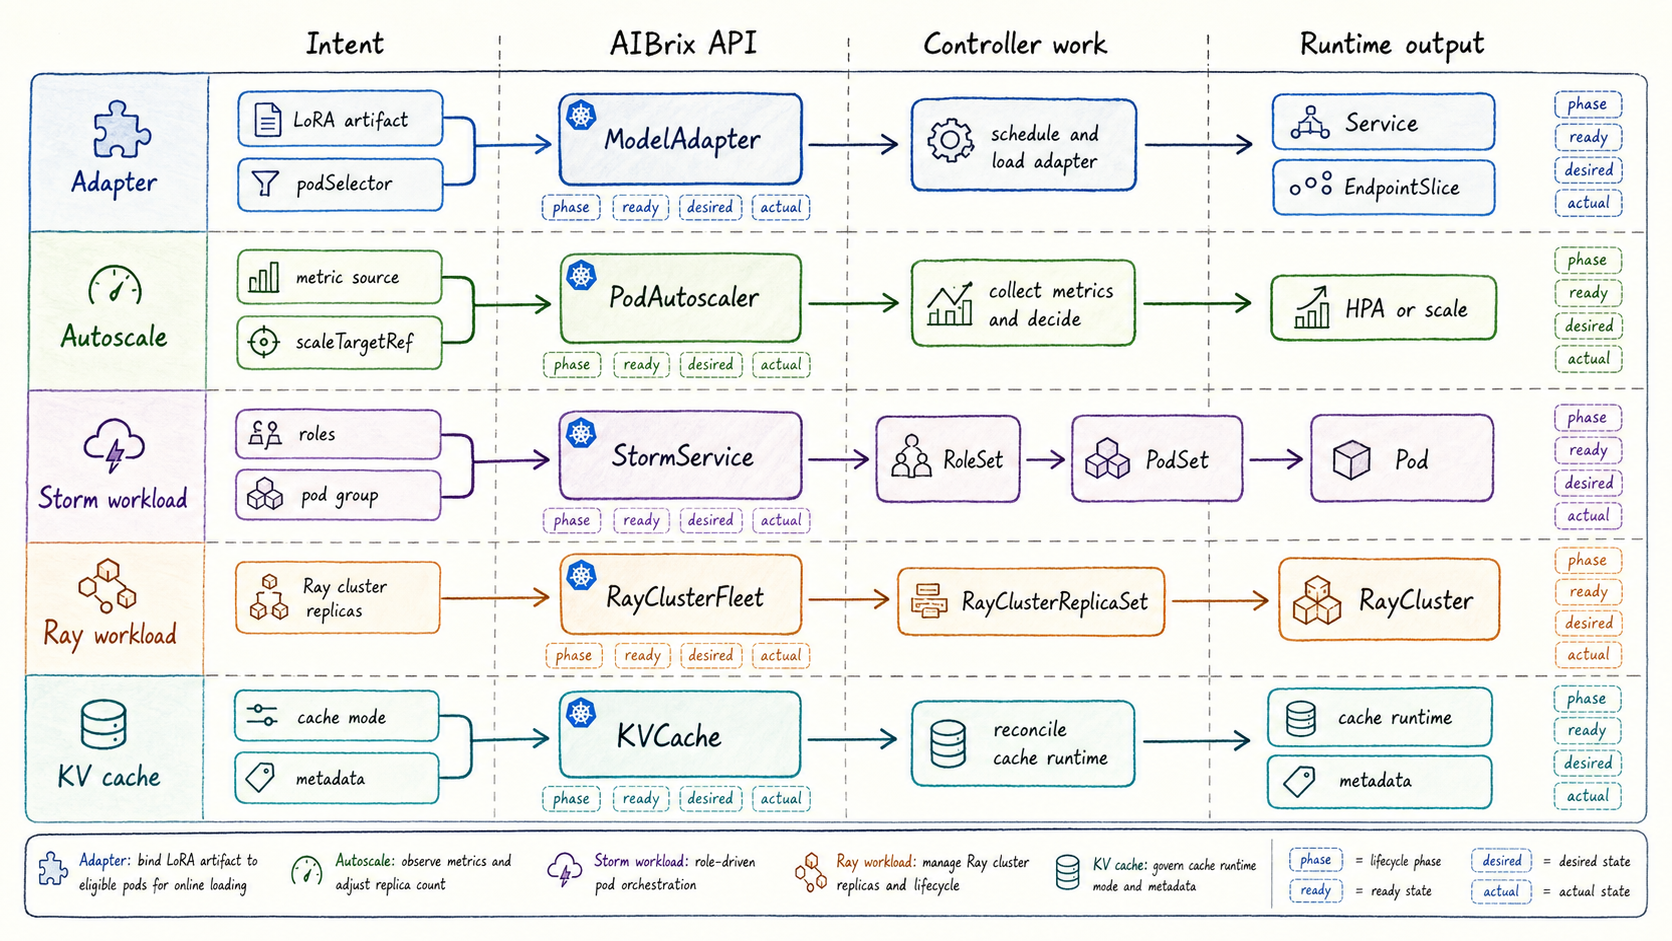
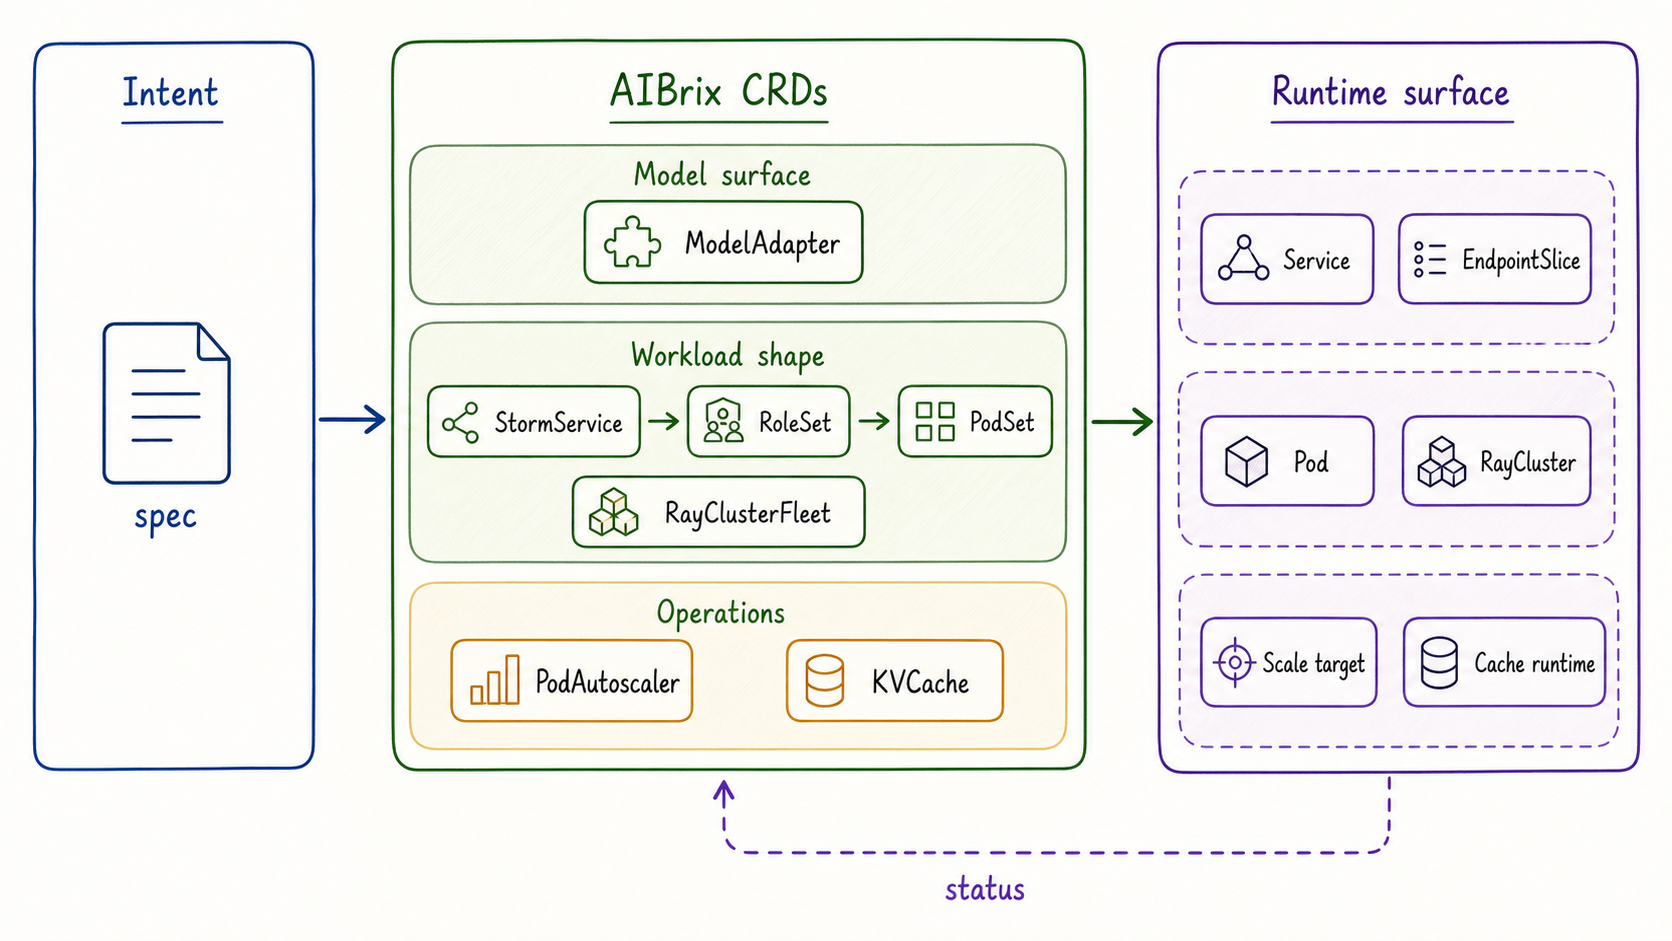
Simplify AIBrix CRD tutorial figures

Changed region(s): [[0.0, 0.0308, 0.9952, 0.9862], [0.5598, 0.2465, 0.5909, 0.2774]]

diff --git a/notes/maas/aibrix架构与实现/02.CRD中心化架构.md b/notes/maas/aibrix架构与实现/02.CRD中心化架构.md
@@ -6,7 +6,7 @@ tags:
   - Kubernetes
   - CRD
   - 架构
-updated: 2026-05-31
+updated: 2026-06-01
 description: "本文解释 AIBrix 如何以 CRD 作为控制面表达入口，并梳理核心 CRD 与 Kubernetes 原生资源、控制器协作之间的关系。"
 ---
 
@@ -73,9 +73,9 @@ AIBrix 的 CRD 中心化架构，可以先理解为三句话：
 
 第二个点是 `Deployment`。基础模型服务可以直接以 Kubernetes `Deployment` 的形式存在，并通过 `model.aibrix.ai/name`、`model.aibrix.ai/port` 等标签被 AIBrix 识别。它不是 AIBrix CRD，却可以成为 AIBrix 路由、扩缩容和运行时观测的一部分。AIBrix 的 CRD 中心化并不否定原生资源，反而依赖原生资源承载实际工作负载。
 
-![图2：AIBrix 核心 CRD 的语义操作图](assets/02/02-crd-map.png)
+![图2：AIBrix 核心 CRD 的语义分层图](assets/02/02-crd-map.png)
 
-图 2 不再把 CRD 画成简单对象清单，而是按“意图、AIBrix API、控制器工作、运行时输出”四列阅读。`ModelAdapter` 这一行展示 LoRA artifact 和 `podSelector` 如何进入 adapter 调度与加载，再落到 `Service`、`EndpointSlice`；`PodAutoscaler` 这一行展示指标来源和 `scaleTargetRef` 如何进入扩缩容决策；`StormService` 与 `RayClusterFleet` 两行展示复杂工作负载如何逐层下降到 Pod 或 RayCluster；`KVCache` 则展示缓存 mode、metadata 与 cache runtime 的管理关系。右侧的小状态块提醒读者：这些对象不仅有目标状态，也会持续产生 phase、ready、desired、actual 等可观测信号。
+图 2 把 AIBrix CRD 压缩成三类语义来读。`Model surface` 关注模型服务入口和 adapter 暴露，典型对象是 `ModelAdapter`，运行时会落到 `Service` 和 `EndpointSlice`。`Workload shape` 关注复杂工作负载结构，`StormService`、`RoleSet`、`PodSet` 用于表达角色化 Pod 组织，`RayClusterFleet` 则面向 RayCluster 这类分布式推理实例。`Operations` 关注横向治理，`PodAutoscaler` 连接扩缩容目标，`KVCache` 连接缓存运行时。这样读图时，重点不再是背完所有对象，而是看清每组 CRD 在平台里负责哪一种语义。
 
 这也说明“核心 CRD”不是一个平面列表。它们之间存在层级关系、横向引用关系和下游资源关系。读源码或样例时，如果只把所有 YAML 平铺起来，很容易把 `StormService`、`RoleSet`、`PodSet` 看成三个互不相干的对象；而从控制面设计看，它们其实是在把“复杂推理服务”逐步拆成更具体、更接近运行时的对象。
 
@@ -143,11 +143,11 @@ CRD 只是控制面的 API 表达，真正让系统动起来的是控制器。AI
 4. observe：观察 Pod、Service、EndpointSlice、RayCluster、指标或运行时结果；
 5. update status：把观察结果写回 CRD `status`。
 
-![图4：AIBrix 控制器职责矩阵](assets/02/04-controller-ownership-loop.png)
+![图4：控制器围绕 Kubernetes API 的协作方式](assets/02/04-controller-ownership-loop.png)
 
-图 4 用职责矩阵替代单链路示意图。`ModelRouter` 监听 `Deployment`、`ModelAdapter`、`RayClusterFleet` 等带模型身份的对象，并创建 `HTTPRoute`、`ReferenceGrant`，但它不是一个写回 CRD `status` 的控制器。`ModelAdapter controller` 负责 adapter 发现与服务发现资源；`PodAutoscaler controller` 负责指标读取和扩缩容目标；`StormService`、`RoleSet`、`PodSet` 形成工作负载编排链；`RayClusterFleet` 和 `RayClusterReplicaSet` 对接可选 KubeRay；`KVCache controller` 管理缓存 runtime 与 metadata service。
+图 4 用四个职责岛替代密集矩阵。`Route bridge` 表示 `ModelRouter` 根据模型身份维护 `HTTPRoute`，但它不承担 CRD `status` 回写；`Adapter lifecycle` 表示 `ModelAdapter` 控制器围绕 adapter 生命周期维护 `Service`、`EndpointSlice` 和状态；`Workload controllers` 表示 `StormService`、`RoleSet`、`PodSet` 等工作负载对象通过 API 对象逐层协作，`RayClusterFleet` 则代表 Ray 工作负载入口；`Operations controllers` 表示 `PodAutoscaler` 和 `KVCache` 这类横向治理能力。
 
-矩阵底部的 Kubernetes API as shared state 是理解控制器协作的重点。控制器之间不依赖直接函数调用来传递关键状态，而是通过 API 对象、watch、reconcile 和 owner reference 形成松耦合协作。
+图中央的 Kubernetes API 是理解控制器协作的重点。控制器之间不依赖直接函数调用来传递关键状态，而是通过 API 对象、watch、reconcile 和必要的 owner reference 形成松耦合协作。
 
 这种协作方式有三个好处。
 